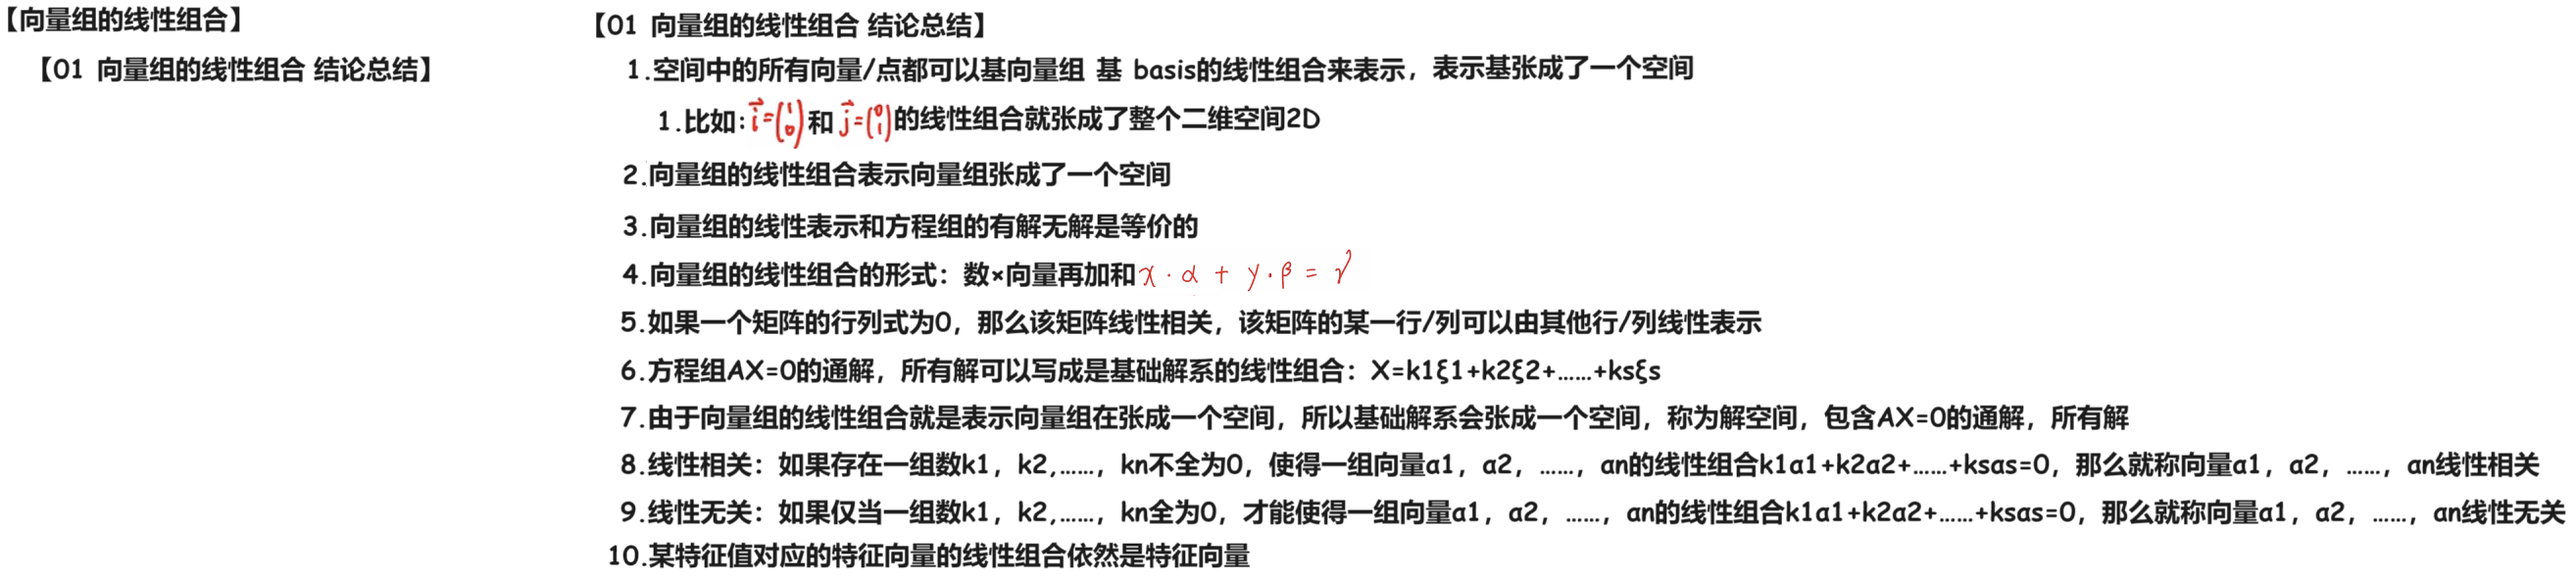
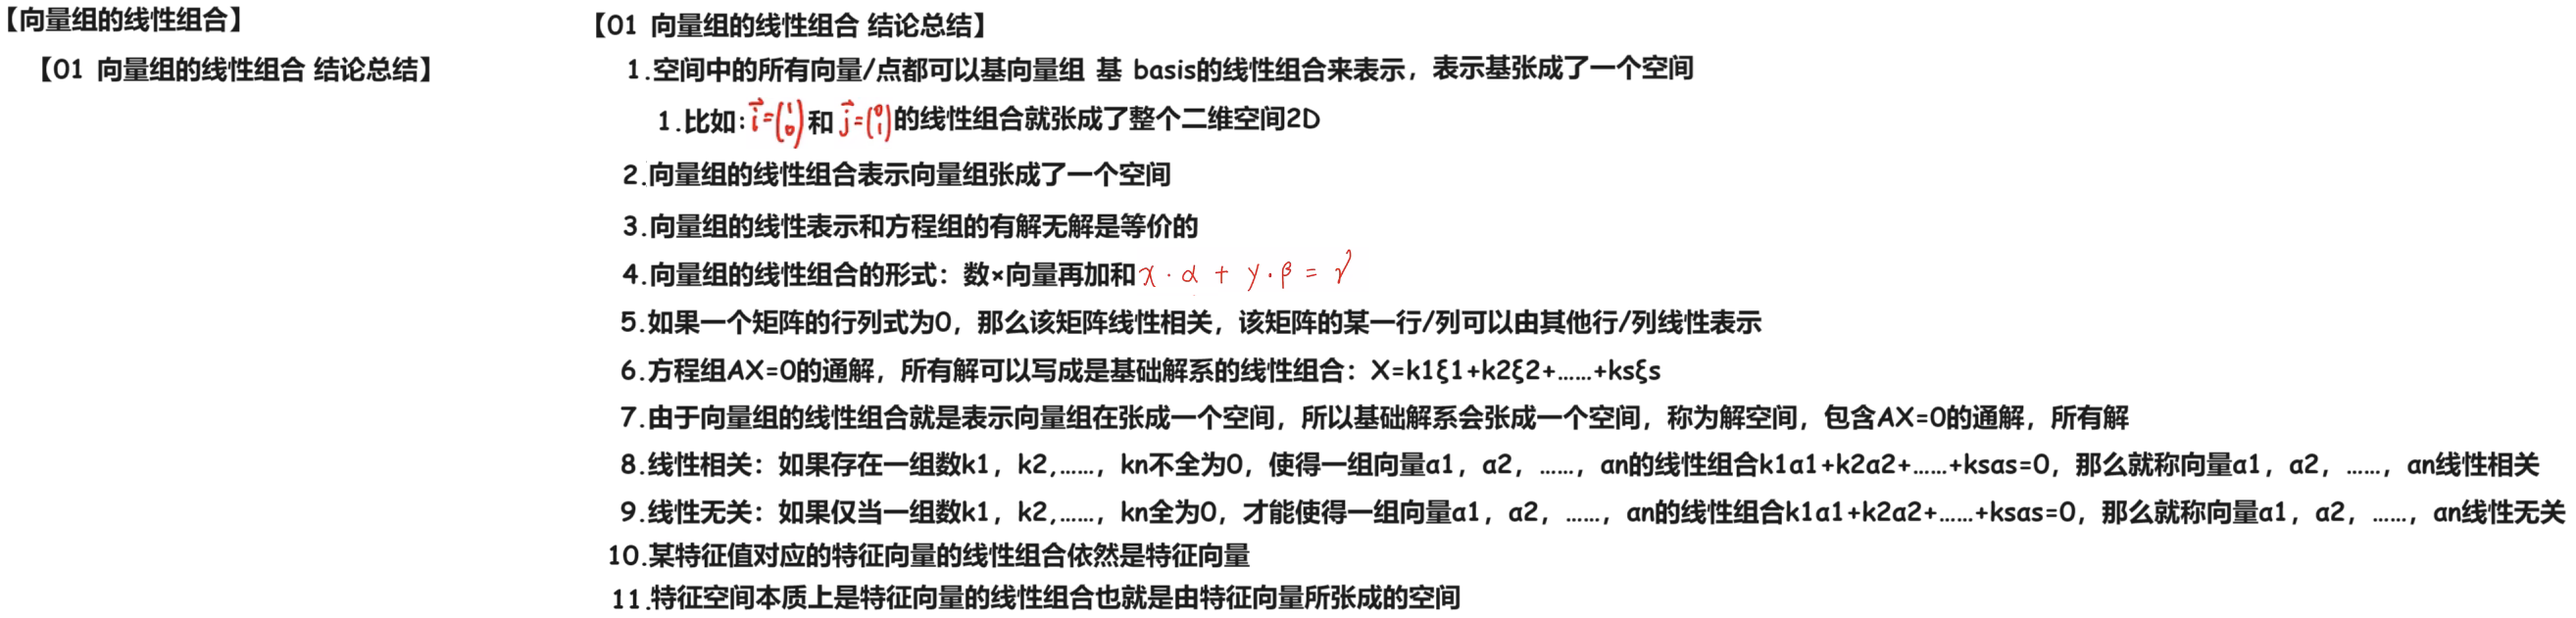
240306

diff --git a/02 线代/02 知识点/10 向量组的线性组合 240306/02 Doc.md b/02 线代/02 知识点/10 向量组的线性组合 240306/02 Doc.md
@@ -1,3 +1,3 @@
 # 01 向量组的线性组合
 
-<img src="https://cvp.oss-cn-shanghai.aliyuncs.com/picgo/202403061634112.png" alt="image-20240306163414980" style="zoom:50%;" />
+<img src="https://cvp.oss-cn-shanghai.aliyuncs.com/picgo/202403061724740.png" alt="image-20240306172438601" style="zoom:50%;" />
